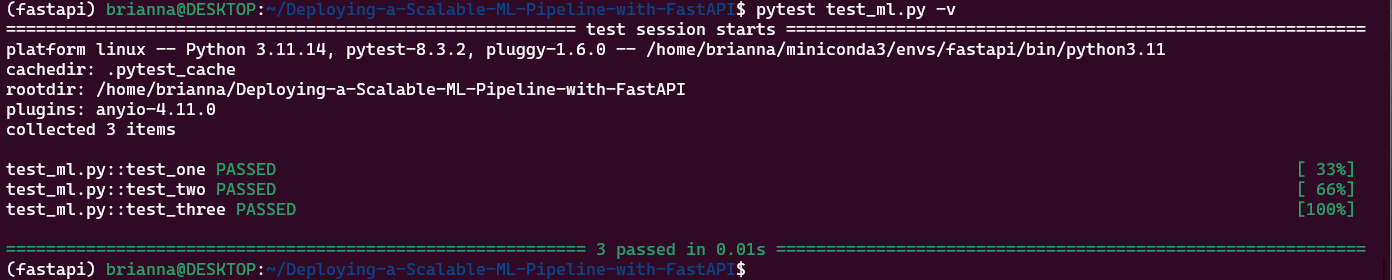
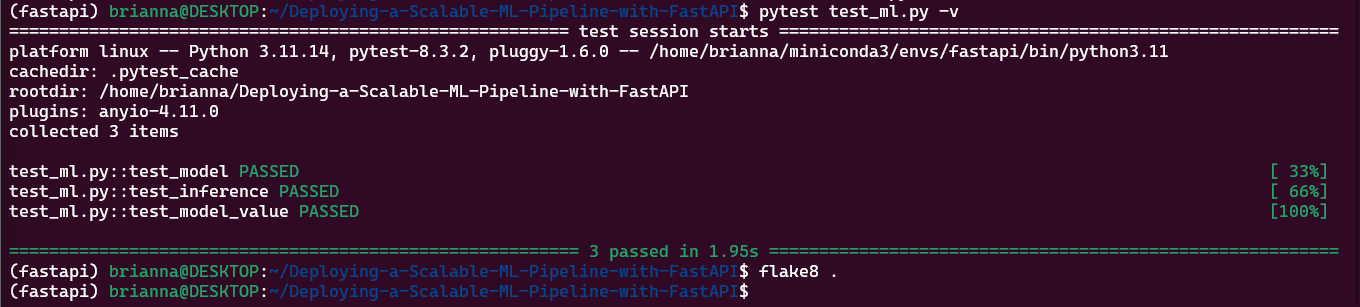
Updated test_ml.py and added to screenshots

Changed region(s): [[0.0, 0.0, 1.0, 1.0], [0.0, 0.5143, 0.2779, 0.7714]]

diff --git a/test_ml.py b/test_ml.py
@@ -1,30 +1,46 @@
-# import pytest
-# TODO: add necessary import
+import numpy as np
+from sklearn.ensemble import RandomForestClassifier
+from ml.model import train_model, compute_model_metrics, inference
 
 # TODO: implement the first test. Change the function name and input as needed
 
 
-def test_one():
+def test_model():
     """
-    # add description for the first test
+    # Testing that my  model is a RandomForestClassifier
     """
-    # Your code here
-    pass
+    X = np.array([[0, 1], [1, 0], [1, 1]])
+    y = np.array([0, 1, 1])
+
+    model = train_model(X, y)
+
+    assert isinstance(model, RandomForestClassifier)
 
 
 # TODO: implement the second test. Change the function name and input as needed
-def test_two():
+def test_inference():
     """
-    # add description for the second test
+    # Verifying that the inference returns the same number of predictions as input rows
     """
-    # Your code here
-    pass
+    X = np.array([[0, 1], [1, 0], [1, 1]])
+    y = np.array([0, 1, 1])
+
+    model = train_model(X, y)
+    preds = inference(model, X)
+
+    assert len(preds) == X.shape[0]
 
 
 # TODO: implement the third test. Change the function name and input as needed
-def test_three():
+def test_model_value():
     """
-    # add description for the third test
+    # Checks that metric function returns numeric value for precision, recall, and fbeta
     """
-    # Your code here
-    pass
+    y_true = np.array([0, 1, 1, 0])
+    y_pred = np.array([0, 1, 0, 0])
+
+    precision, recall, fbeta = compute_model_metrics(y_true, y_pred)
+
+    assert isinstance(precision, float)
+    assert isinstance(recall, float)
+    assert isinstance(fbeta, float)
